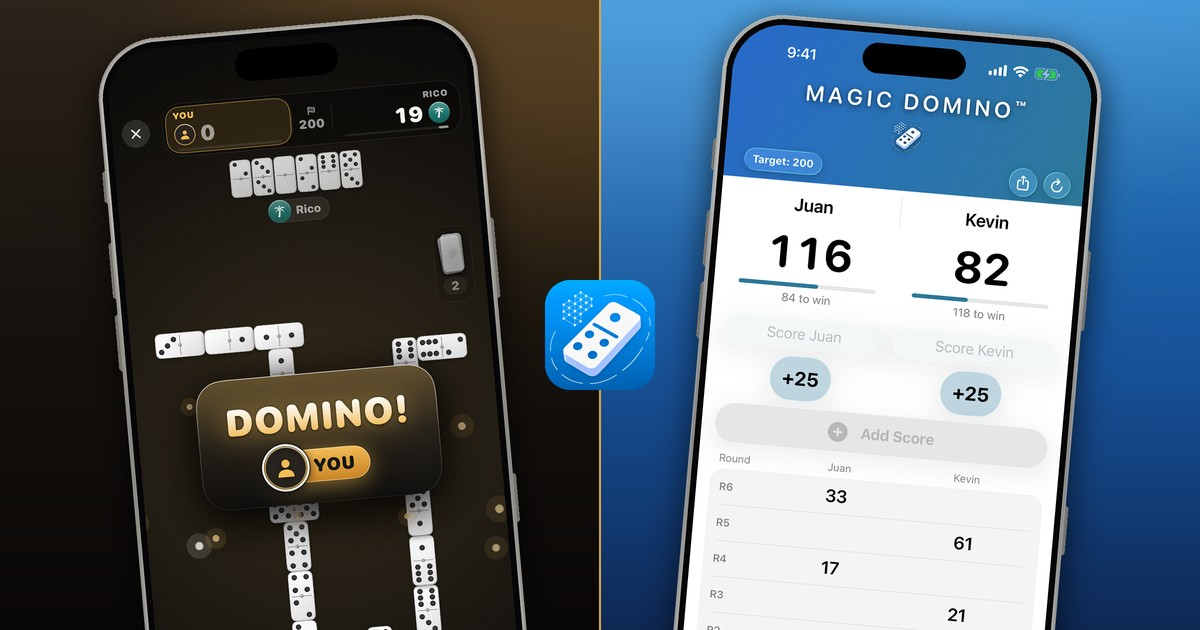
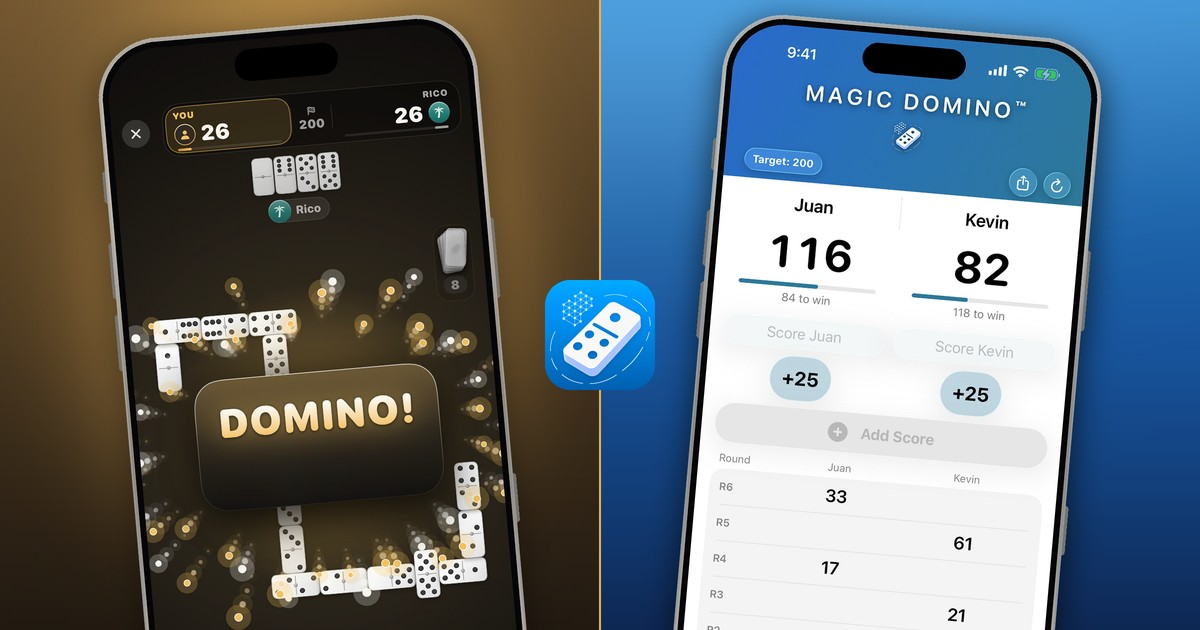
get-card: the DOMINO! sparks on a lit felt, so the Play half reads at chat size

diff --git a/get.html b/get.html
@@ -14,7 +14,7 @@
   This page's tags are ours, so a shared magicdomino.com/get shows the iPhone
   card (get-card.jpg: the felt Play half and the blue Score half, a whole iPhone
   17/18 Pro Max on each with today's screens, the icon on the gold seam — made by
-  Desktop "Share Card Options (2026-10-23)/make3.py") — then sends the reader straight on:
+  Desktop "Share Card Options (2026-10-23)/make5.py", the DOMINO! sparks frame on a lit felt) — then sends the reader straight on:
     iPhone / iPad → the App Store page   Android → Google Play
     anything else → the homepage (both store badges)
   ⚠ The redirect is SCRIPT ONLY, never a meta refresh: a link-preview fetcher
@@ -39,13 +39,13 @@
 <meta property="og:title" content="Magic Domino™ — Play dominoes and keep score">
 <meta property="og:description" content="Play real dominoes online with friends, and keep the score at the table. Free on iPhone, iPad and Android.">
 <meta property="og:url" content="https://magicdomino.com/get">
-<meta property="og:image" content="https://magicdomino.com/get-card.jpg?v=20261023b">
+<meta property="og:image" content="https://magicdomino.com/get-card.jpg?v=20261023c">
 <meta property="og:image:width" content="1200">
 <meta property="og:image:height" content="630">
 <meta name="twitter:card" content="summary_large_image">
 <meta name="twitter:title" content="Magic Domino™ — Play dominoes and keep score">
 <meta name="twitter:description" content="Play real dominoes online with friends, and keep the score at the table. Free on iPhone, iPad and Android.">
-<meta name="twitter:image" content="https://magicdomino.com/get-card.jpg?v=20261023b">
+<meta name="twitter:image" content="https://magicdomino.com/get-card.jpg?v=20261023c">
 <script>
 (function () {
   var APP_STORE = "https://apps.apple.com/app/id6747228055";
